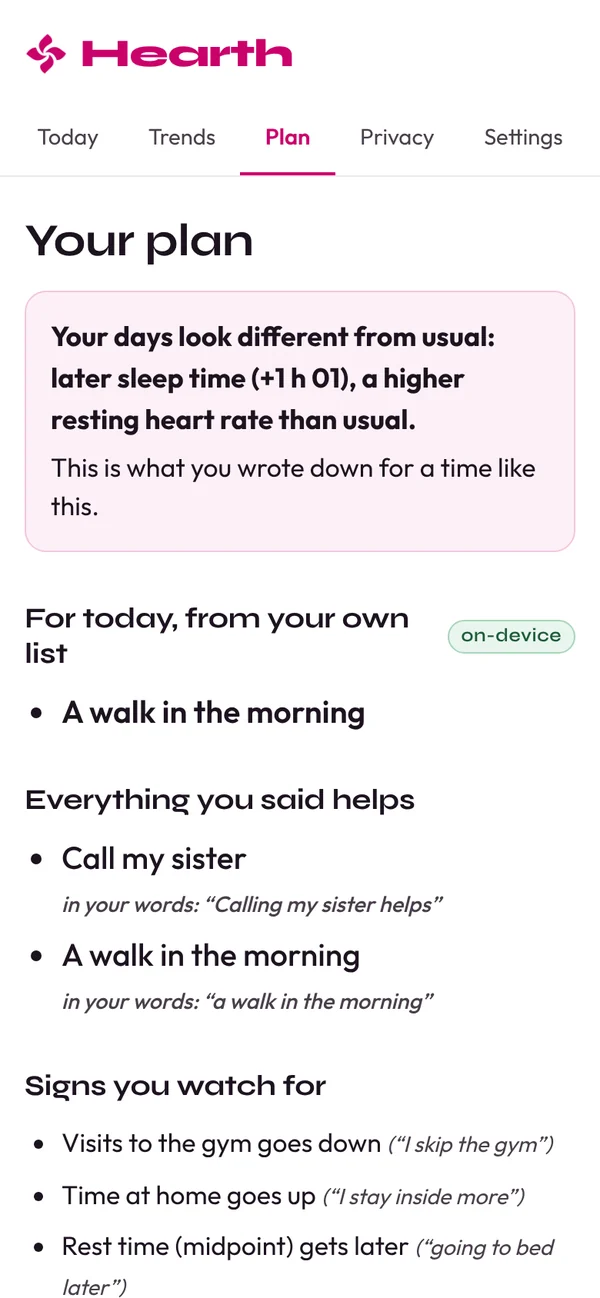
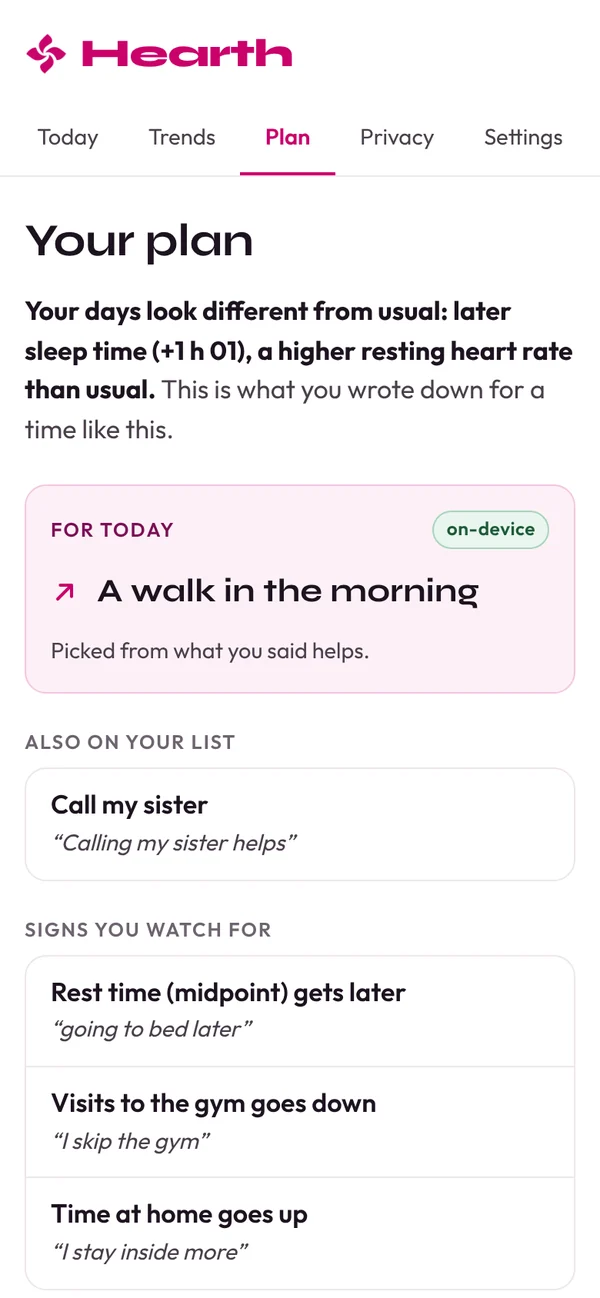
feat(web): add For today card to plan tab

diff --git a/apps/web/src/screens/MyPlan.tsx b/apps/web/src/screens/MyPlan.tsx
@@ -43,39 +43,48 @@ export function MyPlan() {
   return (
     <Screen title="Your plan">
       {changed && (
-        <Card tone="warm">
-          <strong>Your days look different from usual{d.last && d.last.contributors.length ? `: ${d.last.contributors.map((c) => c.phrase).join(", ")}` : ""}.</strong>
-          <span>This is what you wrote down for a time like this.</span>
-        </Card>
+        <p className="myplan-why">
+          <strong>Your days look different from usual{d.last && d.last.contributors.length ? `: ${d.last.contributors.map((c) => c.phrase).join(", ")}` : ""}.</strong> This is what you wrote down for a time like this.
+        </p>
       )}
       {fit && (
-        <>
-          <h2 style={{ display: "flex", gap: 8, alignItems: "center" }}>
-            For today, from your own list <ModelBadge ranOn={fit.ranOn} />
-          </h2>
-          <ul className="plain-list">
+        <section className="today-pick" aria-labelledby="today-pick-title">
+          <div className="today-pick-head">
+            <h2 id="today-pick-title">For today</h2>
+            <ModelBadge ranOn={fit.ranOn} />
+          </div>
+          <ul>
             {fit.ids.map((id) => {
               const a = actions.find((x) => x.id === id);
               return a ? (
-                <li key={id} className="item-text">
-                  {a.text}
+                <li key={id}>
+                  <svg width="18" height="18" viewBox="0 0 16 16" fill="none" stroke="currentColor" strokeWidth={1.8} strokeLinecap="round" strokeLinejoin="round" aria-hidden="true">
+                    <path d="M4 12 12 4M5.5 4H12v6.5" />
+                  </svg>
+                  <span>{a.text}</span>
                 </li>
               ) : null;
             })}
           </ul>
-        </>
+          <small>Picked from what you said helps.</small>
+        </section>
       )}
-      <h2>{fit ? "Everything you said helps" : "You said this helps"}</h2>
+      <h2 className="plan-group">{fit ? "Also on your list" : "What helps you"}</h2>
       {actions.length === 0 && <p className="muted">Nothing yet.</p>}
-      <ul className="plain-list">
-        {actions.map((a) => (
-          <li key={a.id} className="item-text" style={{ fontWeight: 500 }}>
-            {a.text}
-            <br />
-            <small className="quote">in your words: “{a.quote}”</small>
-          </li>
-        ))}
-      </ul>
+      {actions.filter((a) => !fit?.ids.includes(a.id)).length > 0 && (
+        <ul className="plan-list">
+          {actions
+            .filter((a) => !fit?.ids.includes(a.id))
+            .map((a) => (
+              <li key={a.id} className="plan-item">
+                <div className="plan-item-text">
+                  <strong>{a.text}</strong>
+                  <span className="quote">“{a.quote}”</span>
+                </div>
+              </li>
+            ))}
+        </ul>
+      )}
       {d.state?.state === "CONFIRMED" && (
         <Card tone="plain">
           <strong>Talk it through with someone</strong>
@@ -85,22 +94,37 @@ export function MyPlan() {
           </button>
         </Card>
       )}
-      <h2>Signs you watch for</h2>
-      <ul className="plain-list">
+      <h2 className="plan-group">Signs you watch for</h2>
+      <ul className="plan-list">
         {d.rules.map((r) => (
-          <li key={r.id}>
-            {featureLabel(ruleFeature(r), d.state?.places)} {DIRECTION_TEXT[r.direction]} <small className="quote">(“{r.quote}”)</small>
-          </li>
-        ))}
-        {d.items.map((i) => (
-          <li key={i.id}>
-            {i.question} <small className="quote">(“{i.quote}”)</small>
+          <li key={r.id} className="plan-item">
+            <div className="plan-item-text">
+              <strong>
+                {featureLabel(ruleFeature(r), d.state?.places)} {DIRECTION_TEXT[r.direction]}
+              </strong>
+              <span className="quote">“{r.quote}”</span>
+            </div>
           </li>
         ))}
       </ul>
+      {d.items.length > 0 && <h2 className="plan-group">Questions in your check-ins</h2>}
+      {d.items.length > 0 && (
+      <ul className="plan-list">
+        {d.items.map((i) => (
+          <li key={i.id} className="plan-item">
+            <div className="plan-item-text">
+              <strong>{i.question}</strong>
+              <span className="quote">“{i.quote}”</span>
+            </div>
+          </li>
+        ))}
+      </ul>
+      )}
+      <div className="row">
       <button className="secondary" onClick={() => navigate("plan_setup")}>
         Edit my plan
       </button>
+      </div>
       <HelpButton />
     </Screen>
   );

diff --git a/apps/web/src/styles.css b/apps/web/src/styles.css
@@ -142,6 +142,17 @@ th { background: var(--surface-2); font-weight: 600; position: sticky; top: 0; }
 .file-btn:focus-within { box-shadow: 0 0 0 3px var(--magenta-tint); border-color: var(--magenta); }
 .visually-hidden { position: absolute !important; width: 1px; height: 1px; padding: 0; margin: -1px; overflow: hidden; clip: rect(0 0 0 0); white-space: nowrap; border: 0; }
 
+/* ---------- my plan: today's pick ---------- */
+.myplan-why { color: var(--ink-2); margin: 0 0 var(--s2); }
+.myplan-why strong { color: var(--ink); }
+.today-pick { margin: var(--s5) 0 var(--s2); padding: var(--s4); border-radius: var(--radius); background: var(--magenta-tint); border: 1px solid var(--magenta-line); }
+.today-pick-head { display: flex; align-items: center; justify-content: space-between; gap: var(--s3); }
+.today-pick-head h2 { margin: 0; font-family: var(--font-body); font-size: 0.75rem; font-weight: 600; letter-spacing: 0.08em; text-transform: uppercase; color: var(--magenta-deep); }
+.today-pick ul { list-style: none; margin: var(--s3) 0 var(--s2); padding: 0; display: flex; flex-direction: column; gap: var(--s2); }
+.today-pick li { display: flex; align-items: center; gap: var(--s3); font-family: var(--font-display); font-size: 1.25rem; font-weight: 700; color: var(--ink); }
+.today-pick li svg { flex: none; color: var(--magenta); }
+.today-pick small { color: var(--ink-2); }
+
 /* ---------- plan cards (plan setup) ---------- */
 .plan-group { font-family: var(--font-body); font-size: 0.75rem; font-weight: 600; letter-spacing: 0.08em; text-transform: uppercase; color: var(--muted); margin: var(--s5) 0 var(--s2); }
 .plan-list { list-style: none; margin: 0; padding: 0; border: 1px solid var(--line); border-radius: var(--radius); background: var(--white); overflow: hidden; }
